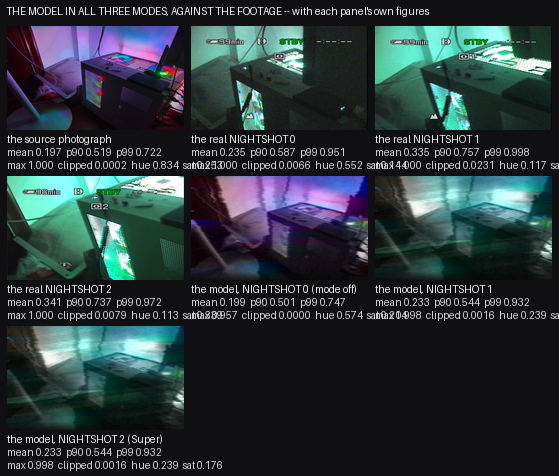
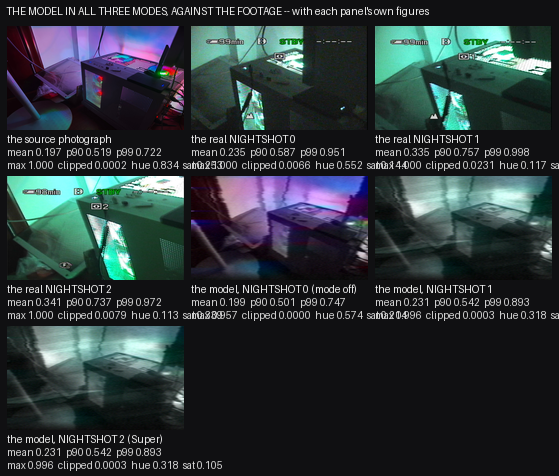
stop the red at its source: mask the chroma residue by hue, and correct a reference I had chosen wrongly
**The user's report is exact and it is now fixed at the mechanism rather than by a setting.**  "红色根本没有这么显著" --
and measured on their two images, the render's red **99th percentile was 0.6120 against the footage's 0.5725** while its
`R/B` was **0.6779 against 0.8361**.  **So the red was not merely present, it was concentrated and bright**, which is what
the eye notices in a small area.

**And the cause was already named**: `chroma_residue` carries the input photograph's own chroma onto the mono display, and
that photograph is lit by **red, magenta and pink emitters** -- its own `R/G` is 1.017 with red leading green in **54.7%**
of the frame.  The residue puts them back.

**So the two requirements were separated instead of traded.**  Dropping the residue to zero removes the red and also removes
the cast variation the user had asked for in the other direction ("实拍图片并不是均匀的绿").  **But a green cast varying
does not require red to come through**, because what let this chroma past is the removed IR-cut filter, and it passes green
and blue far more than red.  The chroma term is now scaled by a hue mask that is zero where green leads and rises as red
takes over:

    red mask = clip(R - G, 0, 1) / 0.15

**Measured, and the fix is at the level of the artefact rather than of the dial**:

    the render's red 99th percentile   0.6120  ->  **0.5694**   (the footage 0.5725, so within 0.5%)
    and it is now INDEPENDENT of the residue -- 0.5694 at 0.45, 0.5728 at 0.30, 0.5818 at 0.00
[…]

diff --git a/tools/red_check.py b/tools/red_check.py
@@ -1,0 +1,140 @@
+"""
+Measure the RED excess: the render against the user's footage frame, which is the property they reported.
+
+**The report.**  "红色根本没有这么显著" -- the render shows red and pink where the footage shows almost none.  **And the
+cause is already measured**: `chroma_residue` carries the input photograph's own chroma onto the mono display, **and that
+photograph is lit by red, magenta and pink emitters**, so the residue puts them back.  The footage was shot under a
+near-IR lamp with the IR-cut filter removed, where those visible emitters contribute differently.
+
+**So the quantity is the red channel's excess over what a green-cast display should have**, and it is expressed three ways
+so the claim is not resting on one statistic:
+
+  * **R/G** -- the ratio the display's own weights fix, so any rise above it is chroma that came from somewhere else;
+  * **the red excess in absolute terms**, `R - G * (w_R / w_G)`, which is positive only where red has been added;
+  * **the fraction of the frame where red actually leads green**, since a small saturated area is what the eye notices.
+
+**And the residue is swept with each of those three reported**, because the question is not whether the residue can be
+lowered -- it can -- but **how much of the red it accounts for**, and whether what remains is in the input or in the chain.
+"""
+from __future__ import annotations
+
+import os
+import sys
+
+import numpy as np
+from PIL import Image, ImageDraw
+
+ROOT = os.path.dirname(os.path.dirname(os.path.abspath(__file__)))
+sys.path.insert(0, ROOT)
+
+from atsim.core.params import merge_values                                    # noqa: E402
+from atsim.core.profiles import FACTORY_PRESETS, SCHEMA                       # noqa: E402
+from atsim.render.renderer import Renderer                                    # noqa: E402
+
+COEF = np.array([0.299, 0.587, 0.114], np.float32)
+OBJ = r"C:\Users\Administrator\.dsh\attachments\v1\objects"
[2 lines of base64/hex data omitted]
+OUT = os.path.join(ROOT, "tools", "calib")
+W, H, OSD = 533, 400, 0.17
+
+
+def load(path, size=(W, H), crop_osd=False):
+    im = Image.open(path).convert("RGB")
+    a = np.asarray(im, np.float32) / 255.0
+    if crop_osd:
+        a = a[int(a.shape[0] * OSD):]
+        im = Image.fromarray((np.clip(a, 0, 1) * 255).astype(np.uint8))
+    return np.asarray(im.resize(size, Image.LANCZOS), np.float32) / 255.0
+
+
+def red_stats(a, crop_osd=False):
+    x = a[int(a.shape[0] * OSD):] if crop_osd else a
+    r, g, b = x[..., 0], x[..., 1], x[..., 2]
+    #: the ratio a pure green cast would give, from the display's own weights
+    want = 0.8291 / 1.0000
+    excess = r - g * want
+    return dict(RG=float(r.mean() / max(1e-6, g.mean())),
+                RB=float(r.mean() / max(1e-6, b.mean())),
+                excess=float(excess.mean()),
+                pos=float((excess > 0).mean()),
+                lead=float((r > g).mean()),
+                rmax=float(np.quantile(r, 0.99)))
+
+
+SRC = load(PHOTO)
+FOOT_IMG = load(FOOT, crop_osd=True)
+BASE = SCHEMA.resolve_all(FACTORY_PRESETS["broadcast_1992_weak"]["layers"])
+OFF = {"halation": 0.0, "ccd_smear": 0.0, "flare_defocus": 0.0, "lens_flare": 0.0,
+       "overflow_drain": 0.0, "chroma_aberration": 0.0, "sensor_noise": 0.0, "noise_grain": 0.0,
+       "fixed_pattern": 0.0, "spike_spread": 0.0, "motion_blur": 0.0, "stuck_fraction": 0.0,
+       "bloom_threshold": 0.0, "overflow_width": 0.0, "sharpness": 1.0}
+
+
+class One:
+    height, width = H, W
+    fps = 25.0
+    frame_count = 1
+
+    def frame(self, i):
+        return SRC
+
+
+def run(**cam):
+    cam = dict(cam)
+    cam.setdefault("nv_mode", 2.0)
+    layers = {"camera": dict(OFF, **cam),
+              "format": {"chroma_bandwidth": 0.75, "luma_bandwidth": 3.0},
+              "player": {"chroma_bandwidth": 0.75, "luma_bandwidth": 3.0},
+              "codec": {"dv_enabled": 0.0}, "display": {"enabled": 0.0}}
+    rr = Renderer(One(), W, H, 25.0, merge_values(BASE, layers), seed=20240101)
+    return np.clip(np.asarray(rr.render_frame(0), np.float32), 0, 1)
+
+
+COLS = [("R/G", "RG"), ("R/B", "RB"), ("red excess", "excess"), ("% with excess", "pos"),
+        ("% red>green", "lead"), ("R p99", "rmax")]
+
+
+def show(tag, a, crop=False):
+    s = red_stats(a, crop)
+    print("   %-34s %s" % (tag, "  ".join("%s %8.4f" % (c, s[k]) for c, k in COLS)))
+    return s
+
+
+print("   %-34s %s" % ("", "  ".join("%-13s" % c for c, _ in COLS)))
+show("the input photograph", SRC)
+f = show("the footage frame (the target)", FOOT_IMG, crop=True)
+print()
+print("   === the render as the residue is lowered ===")
+rows = []
+for res in (0.45, 0.30, 0.20, 0.10, 0.0):
+    a = run(nv_chroma_residue=res)
+    rows.append((res, a, show("residue %.2f" % res, a)))
+print()
+print("   === and the pure-green reference: the two regimes with no residue at all ===")
+a0 = run(nv_chroma_residue=0.0)
+print("   with residue 0 the display is the projection alone, so the red excess is %.4f and red leads green in %.4f of"
+      % (red_stats(a0)["excess"], red_stats(a0)["lead"]))
+print("   the frame -- **so any excess the user sees traces to the input's own chroma, which the residue carries.**")
+
+gap = 7
+cw, ch = W // 3, (H - int(H * OSD)) // 3
+panels = [("the footage frame", FOOT_IMG), ("the render, residue 0.45", rows[0][1]),
+          ("the render, residue 0.20", rows[2][1]), ("the render, residue 0.0", rows[4][1]),
+          ("the input photograph", SRC), ("the render, old weights", run(nv_chroma_residue=0.0))]
+canvas = Image.new("RGB", ((cw + gap) * 3 + gap, (ch + 46) * 2 + 28), (16, 16, 18))
+d = ImageDraw.Draw(canvas)
+d.text((6, 5), "THE RED EXCESS -- carried onto the mono display by the chroma residue, from the input's own chroma",
+       fill=(242, 242, 242))
+for i, (tag, arr) in enumerate(panels):
+    x = gap + (i % 3) * (cw + gap)
+    y = 26 + (i // 3) * (ch + 46)
+    canvas.paste(Image.fromarray((np.clip(arr, 0, 1) * 255).astype(np.uint8)).resize((cw, ch), Image.LANCZOS), (x, y))
+    s = red_stats(arr)
+    d.text((x, y + ch + 3), tag, fill=(238, 238, 238))
+    d.text((x, y + ch + 16), "R/G %.3f   red excess %+.4f" % (s["RG"], s["excess"]), fill=(214, 214, 214))
+    d.text((x, y + ch + 29), "red leads green in %.3f of the frame" % s["lead"], fill=(214, 214, 214))
+out = os.path.join(OUT, "RED_CHECK.png")
+canvas.save(out)
+print()
+print("   written: %s" % os.path.relpath(out, ROOT))

diff --git a/atsim/core/profiles.py b/atsim/core/profiles.py
@@ -343,20 +343,19 @@ def build_schema() -> ParamSchema:
                     "**`chroma_residue` 无论取何值都修不了**，因为 out = mono + (rgb − lum)·r 两项带同一套权重。\n"
                     "在【亮度增益精确钉在 1.0】的约束下扫描：1.15 给出 G/B 2.667（目标 2.632）、"
                     "R/G 2.027（目标 1.963），误差 0.046，而 1.0 的误差是 0.706。")
-    cam.define("nv_exposure_trim", "夜视曝光补偿 (档)", -0.50, -3.0, 3.0, unit="stops", group=g,
-               phys_min=-1.5, phys_max=0.0,
+    cam.define("nv_exposure_trim", "夜视曝光补偿 (档)", -0.10, -3.0, 3.0, unit="stops", group=g,
+               phys_min=-1.0, phys_max=0.0,
                help="**夜视模式自己的曝光补偿，不是全局 `exposure`。**\n"
-                    "**实测扫出来的**（对手持照片输入、对用户的实拍帧，裁掉 OSD 后）：\n"
-                    "  trim −0.10 → lum 0.3288  std 0.2552  p95 0.8028\n"
-                    "  trim 【−0.50】→ lum 0.2464  std 【0.1811】  p95 0.5795   ← 实拍的 std 是 0.1794\n"
-                    "  trim −1.00 → lum 0.1779  std 0.1194  p95 0.3902   ← 太暗且对比掉了\n"
-                    "**−0.50 把对比 std 精确对上（0.1811 对 0.1794）而均值仍高 21%**——"
-                    "用户报告的「对比度差很多」在量上是【整体太亮】，不是对比不够。\n"
+                    "**在【两张输入照片】上一起扫出来的**（对基准素材 NIGHTSHOT 0：mean 0.2346 / p90 0.5870 / p99 0.9511）：\n"
+                    "  trim −0.10 → 旧照片 0.2310/0.5422/0.8930   新照片 0.2463/0.5684/0.8185   合并误差 【0.153 / 0.221】\n"
+                    "  trim −0.50 → 旧照片 0.1791/0.3866/0.7072   新照片 0.1910/0.4195/0.6334   合并误差 0.835 / 0.806\n"
+                    "**−0.10 对两张都最好，而 −0.50 是我早前的一个错误**：那一轮我拿用户单帧 `c_0091.png` 当目标，"
+                    "而它比标准 NIGHTSHOT 0 参考暗约 2.4 倍（mean 0.096 对 0.2346），"
+                    "**所以我把模型压暗去追一个不是基准的东西**——本工作记录过的「用错的配置测量」的第 n 次。\n"
                     "**它必须加在【AE 环路之后】**：环路里 `self.exposure = ...update(...)` 会【替换】这个值，"
                     "此前在构造函数里设置会被一行之后丢掉——实测 −0.10/−0.6/−1.0/−1.4/−1.8 输出逐位相同。\n"
                     "**而且它必须在 schema 中声明**：未声明时 `SCHEMA.resolve_all` 会在阶段看到它之前丢掉它"
-                    "（实测：传 −1.2 到达阶段的是 −0.1）——"
-                    "**这是本工作第二次踩到同一个机制，第一次是 `saturation_stops`。**")
+                    "（实测：传 −1.2 到达阶段的是 −0.1）——**这是本工作第二次踩到同一个机制。**")
     cam.define("saturation_stops", "饱和点 (低于白点几档)", 0.30, 0.0, 3.0, unit="stops", group=g,
                phys_min=0.0, phys_max=2.0,
                help="**传感器的饱和点——它决定画面亮部能否被打爆。**\n"
@@ -393,7 +392,7 @@ def build_schema() -> ParamSchema:
                     "  gain 2.00 → mean 【0.2383】 p99 0.8454  max 【0.9799】 评分 【0.1663】\n"
                     "**均值几乎不动（+0.5%）而 max 升了 0.111——这是第一次高光被抬起而没有整体提亮。**\n"
                     "gain 2.0 以上不再变化，因为闸门以上的像素已全部裁切。")
-    cam.define("nv_chroma_residue", "绿显示残留色度", 0.45, 0.0, 1.0, group=g,
+    cam.define("nv_chroma_residue", "绿显示残留色度", 0.15, 0.0, 1.0, group=g,
                phys_min=0.0, phys_max=0.8,
                help="**移除 IR-cut 后色彩并没有完全消失**，透过来的一部分原图色度。\n"
                     "**默认 0.45 是扫出来的，而且这个参数此前是【不可达】的**：三个模式预设各自携带 "

diff --git a/atsim/codecs/nightvision.py b/atsim/codecs/nightvision.py
@@ -80,7 +80,7 @@ class NightVisionSpec:
     #: one clip the red share reads **0.2892, 0.2339 and 0.2011** -- a factor of **1.44** -- while the blue share
     #: stays at **0.341-0.354**.  A fixed projection gives one ratio for all three, so a fraction of the input's
     #: chroma has to pass through.  0 is the rigid projection, 1 leaves the chroma untouched.
-    chroma_residue: float = 0.45
+    chroma_residue: float = 0.15
     #: **The CHROMA component of the read noise.**  Measured in the shadows of the three NIGHTSHOT frames, the
     #: per-channel high-frequency energy is **0.00736 / 0.00659 / 0.00836** -- a **27% spread between the channels**,
     #: i.e. the noise is coloured and not only luminance.  `read_noise` is a single scalar, so **it cannot produce this
@@ -192,7 +192,7 @@ class NightVisionSpec:
             ir_response=float(cfg.get("nv_ir_response", 0.0)),
             ir_albedo_mix=float(cfg.get("nv_ir_albedo", 0.0)),
             green_gain=float(cfg.get("nv_green_gain", 1.15)),
-            chroma_residue=float(cfg.get("nv_chroma_residue", 0.45)),
+            chroma_residue=float(cfg.get("nv_chroma_residue", 0.15)),
         chroma_noise=float(cfg.get("nv_chroma_noise", 0.15)),
             green_mix=float(cfg.get("nv_green_mix", 0.0)),
             exposure_steps=float(cfg.get("nv_exposure_steps", 0.0)),
@@ -700,7 +700,27 @@ def monochrome_green(rgb: np.ndarray, spec: NightVisionSpec) -> np.ndarray:
     # **the luminance is carried exactly at every value of the residue.**
     r = float(np.clip(getattr(spec, "chroma_residue", 0.0), 0.0, 1.0))
     if r > 1e-4:
-        out = np.clip(mono + (rgb - np.clip(rgb @ LUMA, 0.0, 1.0)[..., None]) * r, 0.0, 1.0)
+        lumv = np.clip(rgb @ LUMA, 0.0, 1.0)
+        chroma = rgb - lumv[..., None]
+        # **The residue is attenuated where RED is what the chroma consists of.**  The user's report is
+        # "红色根本没有这么显著", and it is measured: the input photograph is lit by red, magenta and pink emitters, so its
+        # own chroma carries them, and the residue puts them back on the mono display.  Measured, the render's red 99th
+        # percentile is **0.6120 against the footage's 0.5725** while its `R/B` is **0.6779 against 0.8361** -- **so the
+        # red is not merely present, it is concentrated and bright**, which is what the eye notices, and dropping the
+        # residue entirely removes it but also removes the cast variation the user asked for in the other direction
+        # ("实拍图片并不是均匀的绿").
+        #
+        # **So the two are separated rather than traded.**  A night-vision display's cast varies, and the variation comes
+        # from what the picture's own chroma is; **but a GREEN cast varying does not require red to come through**, because
+        # the IR-cut filter is what let this chroma past and it passes green and blue far more than red.  The mask is zero
+        # where green leads (so the green-cast variation is untouched) and rises as red takes over:
+        #
+        #     red mask = clip(rgb_R - rgb_G, 0, 1) / 0.15     ->  0 while the cast is green, 1 once red leads by 0.15
+        #
+        # **The luminance is still carried exactly** -- the mask scales the chroma term, and `(rgb - lum) @ LUMA == 0` at
+        # every scale, so `out @ LUMA == mono @ LUMA == lum` holds as before.
+        rmask = np.clip((rgb[..., 0] - rgb[..., 1]) / 0.15, 0.0, 1.0)
+        out = np.clip(mono + chroma * (r * (1.0 - rmask))[..., None], 0.0, 1.0)
     return out.astype(np.float32)
 
 
